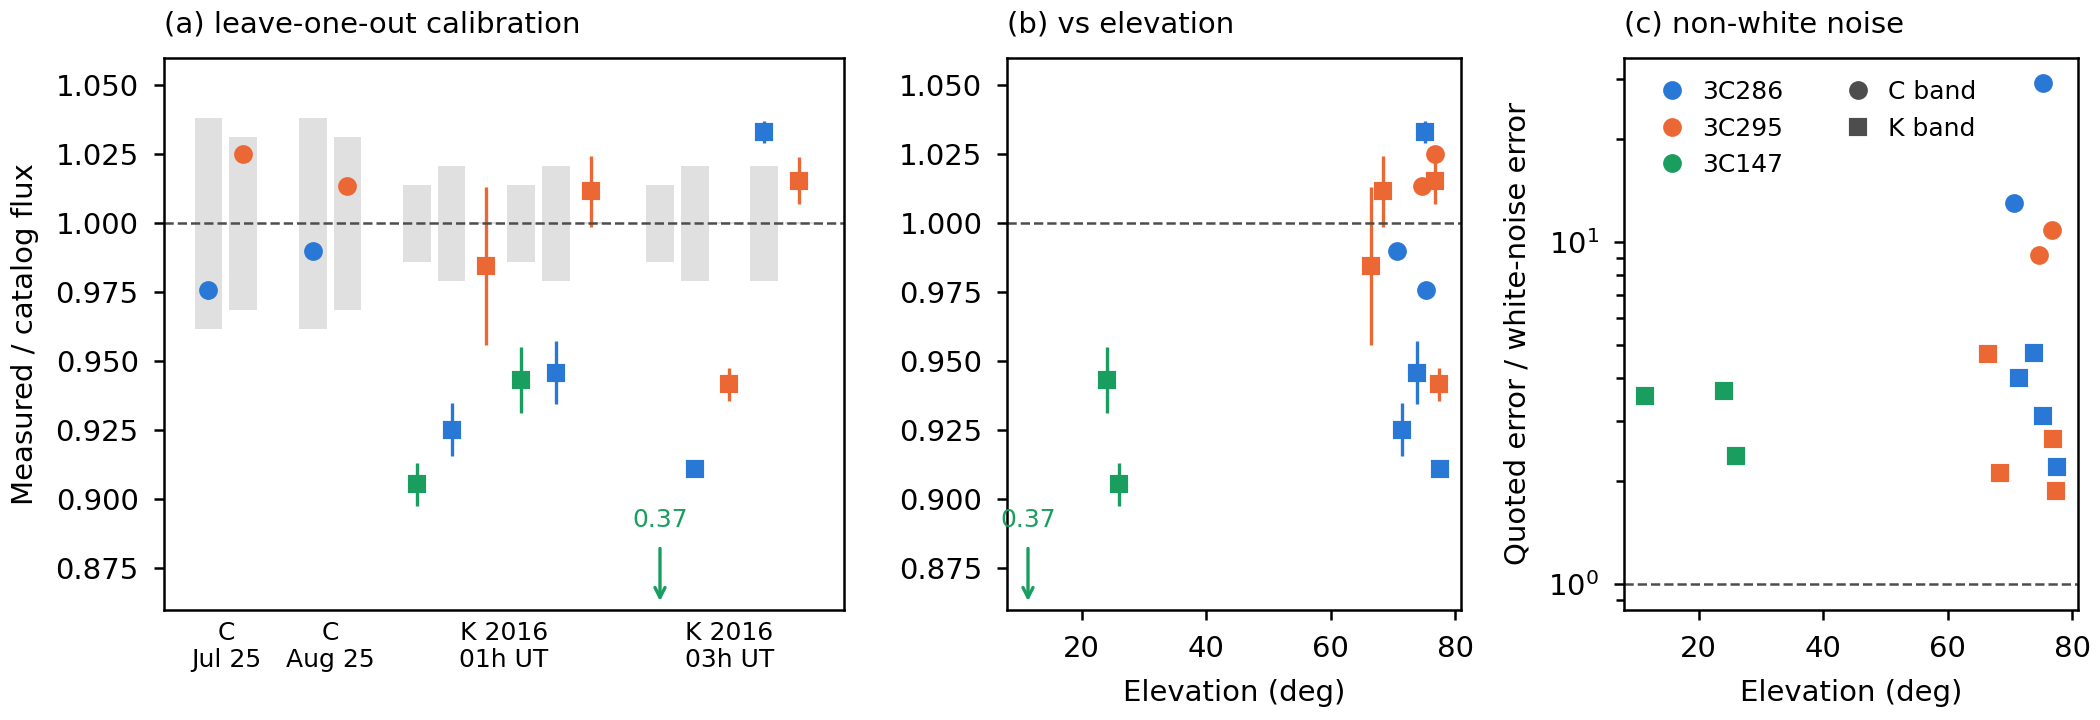
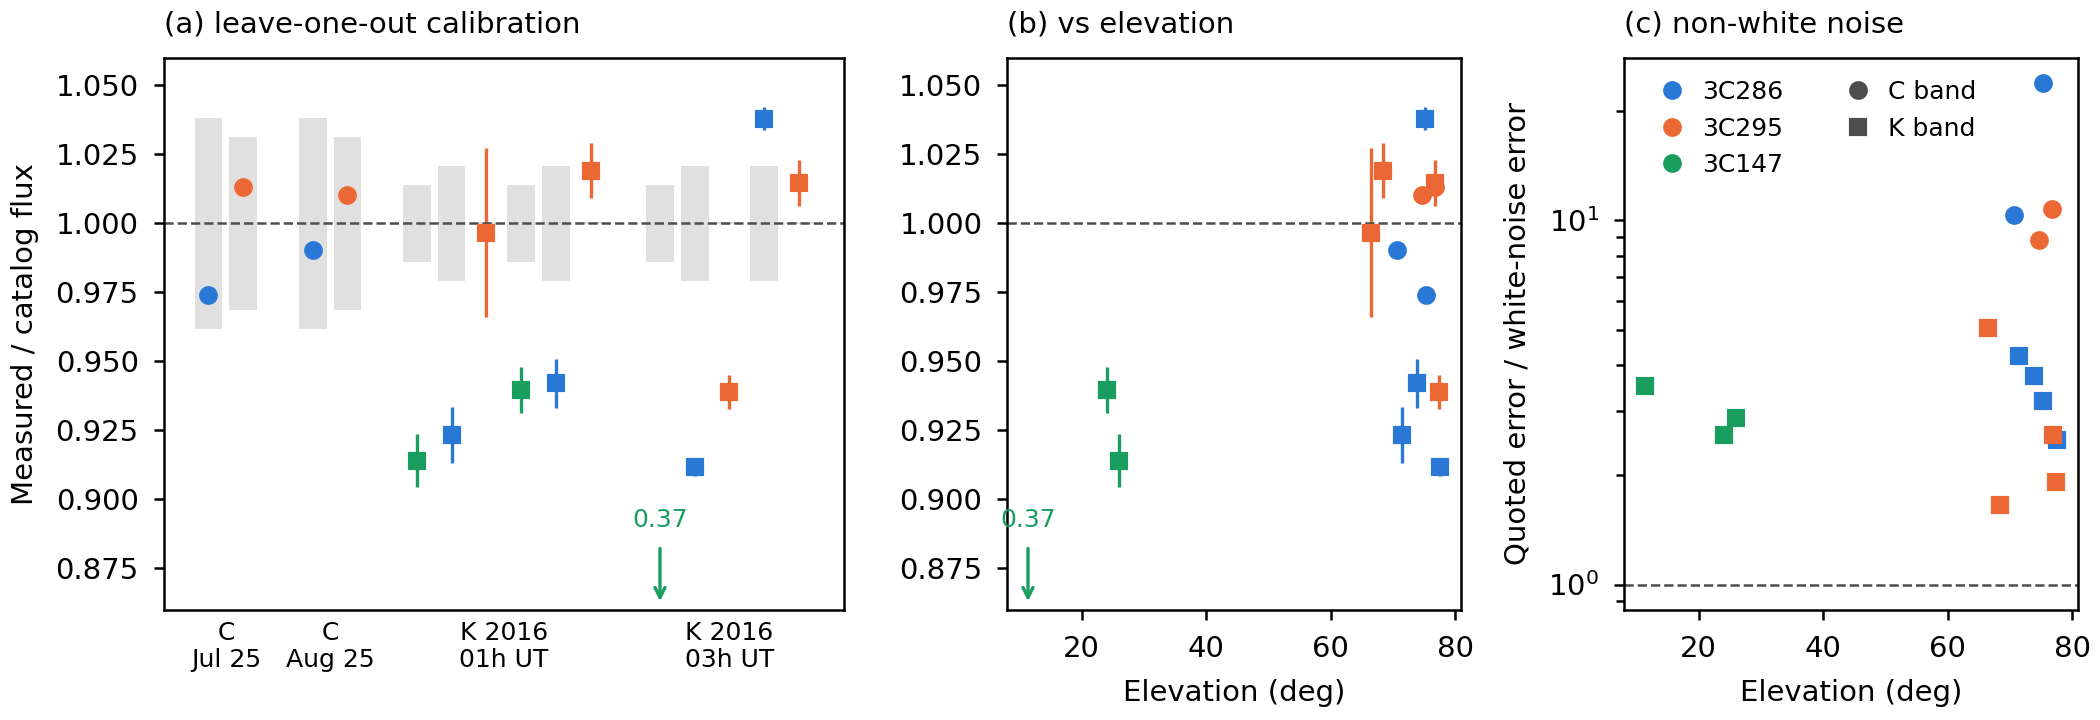
Cross-scan tutorial: calibrator example with --fit-position (automatic analysis)

diff --git a/docs/tutorials/crossscans.rst b/docs/tutorials/crossscans.rst
@@ -131,11 +131,10 @@ We measured 15 cross-scan observations of 3C286, 3C295 and 3C147 taken at
 SRT: two C-band sessions in 2025 (7 GHz, four crosses per observation) and
 one K-band night in 2016 (21 GHz, one cross per observation). Each
 observation was calibrated by ``SDTcal`` on the *other* calibrators of the
-same session (leave-one-out), measured with ``SDTcross --calibrate``, and
-compared with the flux catalog of srttools (Perley & Butler 2013).
-(The figure was made without ``--fit-position``; with it, the fluxes change by
-less than 2%: the pointing offsets are at most 5% of the beam at C band, and
-10% at K band.)
+same session (leave-one-out), measured with ``SDTcross --calibrate
+--fit-position``, and compared with the flux catalog of srttools (Perley &
+Butler 2013). Everything is automatic: ``SDTcal`` and ``SDTcross`` both
+correct for the pointing offsets, and the beam width is the default one.
 
 .. image:: ../images/crossscan_calibrators.png
    :width: 100%
@@ -147,7 +146,7 @@ white noise alone would give.
 
 What this shows:
 
-- At C band the measured fluxes agree with the catalog within 1-3%, inside
+- At C band the measured fluxes agree with the catalog within 1-2.6%, inside
   the uncertainty of the catalog itself (3-4%). The statistical error of ``SDTcross``
   (0.1-0.3% on these bright sources) is negligible: on bright sources the
   accuracy is set by the calibration, not by the measurement.
@@ -170,7 +169,8 @@ What this shows:
 
 The consistency checks behave differently on bright sources:
 
-- ``CONS_SHP`` was between +5 and +21 in all these observations. The beam
+- ``CONS_SHP`` was between +2 and +22 in these observations (+0.5 for
+  3C147 at 11 degrees of elevation). The beam
   fitted by ``SDTcal`` on the same calibrators is narrower than the default
   (1.22 lambda / D): by 1.5% at C band and by 7% at K band. Passing the fitted
   width with ``--beam-fwhm`` increases the fluxes by 0.15% at C band and by
@@ -181,15 +181,16 @@ The consistency checks behave differently on bright sources:
   fits (the ``Width`` column of the ``SDTcal`` table is the standard
   deviation of the Gaussian, in degrees: multiply by 2.355 and by 60 to get
   the FWHM in arcmin).
-- ``CONS_ARM`` was -9.5 in one observation of 3C286: the RA scans gave 3%
+- ``CONS_ARM`` was -7.9 in one observation of 3C286: the RA scans gave 3%
   less than the Dec scans. This is not a pointing offset: the offsets fitted
-  by ``SDTcal`` (at most 0.15', 5% of the beam) cost only a few tenths of a
-  percent, and about the same on both arms. The RA profiles are narrower
+  on these data are at most 0.15' (5% of the beam) at C band, the
+  corrections for them are below 1%, and without ``--fit-position``
+  ``CONS_ARM`` is about the same (-9.5). The RA profiles are narrower
   than the Dec ones (2.74' against 2.79') and 1.6% lower even in the fits of
   ``SDTcal``, where position and width are free: the beam is slightly
   elongated, and a circular beam model cannot fit both arms at this
-  precision. The flux of that observation is 2.4% below the catalog.
-- ``CONS_POL`` scattered more than expected (standard deviation 2.2 instead
+  precision. The flux of that observation is 2.6% below the catalog.
+- ``CONS_POL`` scattered more than expected (standard deviation 2.3 instead
   of 1). On bright sources, it measures how well each polarization channel
   is calibrated: a 1% difference is 5 standard deviations at a precision
   of 0.2%.
